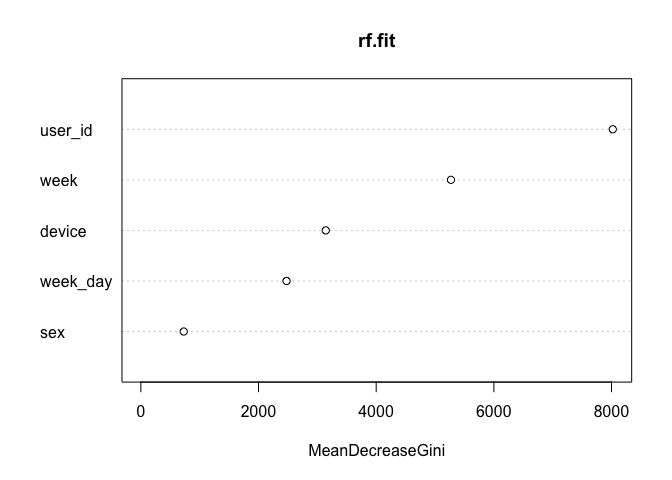
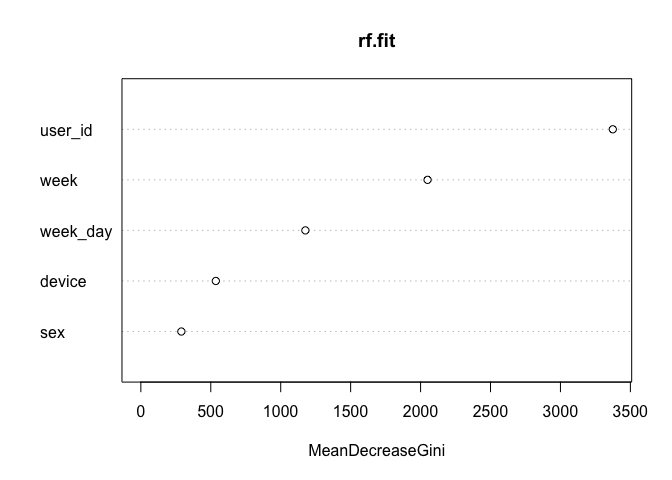
Add files via upload

diff --git a/Funnel Analysis/Funnel_analysis.md b/Funnel Analysis/Funnel_analysis.md
@@ -431,30 +431,30 @@ errors_df
     ## 9     9-1  0.000000000    1.0000000        0.9950547
 
 The above table shows that the optimium class wt ratio is around
-6:4
+1:9
 
 ``` r
-rf.fit <- randomForest(y=train_data$converted, x = train_data[, -c(6)], ytest = test_data$converted, xtest = test_data[, -c(6)],  ntree = 150, classwt=c(6,4), mtry = 2, keep.forest = TRUE)
+rf.fit <- randomForest(y=train_data$converted, x = train_data[, -c(6)], ytest = test_data$converted, xtest = test_data[, -c(6)],  ntree = 150, classwt=c(1,9), mtry = 2, keep.forest = TRUE)
 rf.fit
 ```
 
     ## 
     ## Call:
-    ##  randomForest(x = train_data[, -c(6)], y = train_data$converted,      xtest = test_data[, -c(6)], ytest = test_data$converted,      ntree = 150, mtry = 2, classwt = c(6, 4), keep.forest = TRUE) 
+    ##  randomForest(x = train_data[, -c(6)], y = train_data$converted,      xtest = test_data[, -c(6)], ytest = test_data$converted,      ntree = 150, mtry = 2, classwt = c(1, 9), keep.forest = TRUE) 
     ##                Type of random forest: classification
     ##                      Number of trees: 150
     ## No. of variables tried at each split: 2
     ## 
-    ##         OOB estimate of  error rate: 5%
+    ##         OOB estimate of  error rate: 17.73%
+    ## Confusion matrix:
+    ##       0     1 class.error
+    ## 0 48955 10409   0.1753420
+    ## 1   170   130   0.5666667
+    ##                 Test set error rate: 17.46%
     ## Confusion matrix:
     ##       0    1 class.error
-    ## 0 56641 2723  0.04586955
-    ## 1   262   38  0.87333333
-    ##                 Test set error rate: 4.6%
-    ## Confusion matrix:
-    ##       0    1 class.error
-    ## 0 29297 1287  0.04208083
-    ## 1   126   26  0.82894737
+    ## 0 25297 5287   0.1728682
+    ## 1    81   71   0.5328947
 
 ``` r
 # Visualize Important variables
@@ -467,27 +467,27 @@ Now, lets try to build model without
 user\_id
 
 ``` r
-rf.fit2 <- randomForest(y=train_data$converted, x = train_data[, -c(1,6)], ytest = test_data$converted, xtest = test_data[, -c(1,6)],  ntree = 150, classwt=c(6,4), mtry = 2, keep.forest = TRUE)
+rf.fit2 <- randomForest(y=train_data$converted, x = train_data[, -c(1,6)], ytest = test_data$converted, xtest = test_data[, -c(1,6)],  ntree = 150, classwt=c(1,9), mtry = 2, keep.forest = TRUE)
 rf.fit2
 ```
 
     ## 
     ## Call:
-    ##  randomForest(x = train_data[, -c(1, 6)], y = train_data$converted,      xtest = test_data[, -c(1, 6)], ytest = test_data$converted,      ntree = 150, mtry = 2, classwt = c(6, 4), keep.forest = TRUE) 
+    ##  randomForest(x = train_data[, -c(1, 6)], y = train_data$converted,      xtest = test_data[, -c(1, 6)], ytest = test_data$converted,      ntree = 150, mtry = 2, classwt = c(1, 9), keep.forest = TRUE) 
     ##                Type of random forest: classification
     ##                      Number of trees: 150
     ## No. of variables tried at each split: 2
     ## 
-    ##         OOB estimate of  error rate: 16.86%
+    ##         OOB estimate of  error rate: 63.29%
     ## Confusion matrix:
-    ##       0    1 class.error
-    ## 0 49450 9914   0.1670036
-    ## 1   144  156   0.4800000
-    ##                 Test set error rate: 16.98%
+    ##       0     1 class.error
+    ## 0 21652 37712   0.6352672
+    ## 1    48   252   0.1600000
+    ##                 Test set error rate: 63.05%
     ## Confusion matrix:
-    ##       0    1 class.error
-    ## 0 25440 5144   0.1681925
-    ## 1    74   78   0.4868421
+    ##       0     1 class.error
+    ## 0 11230 19354   0.6328145
+    ## 1    24   128   0.1578947
 
 There is a clear drop in overall test set accuracy by dropping user\_id.
 The optimum model should infact be rf.fit.
